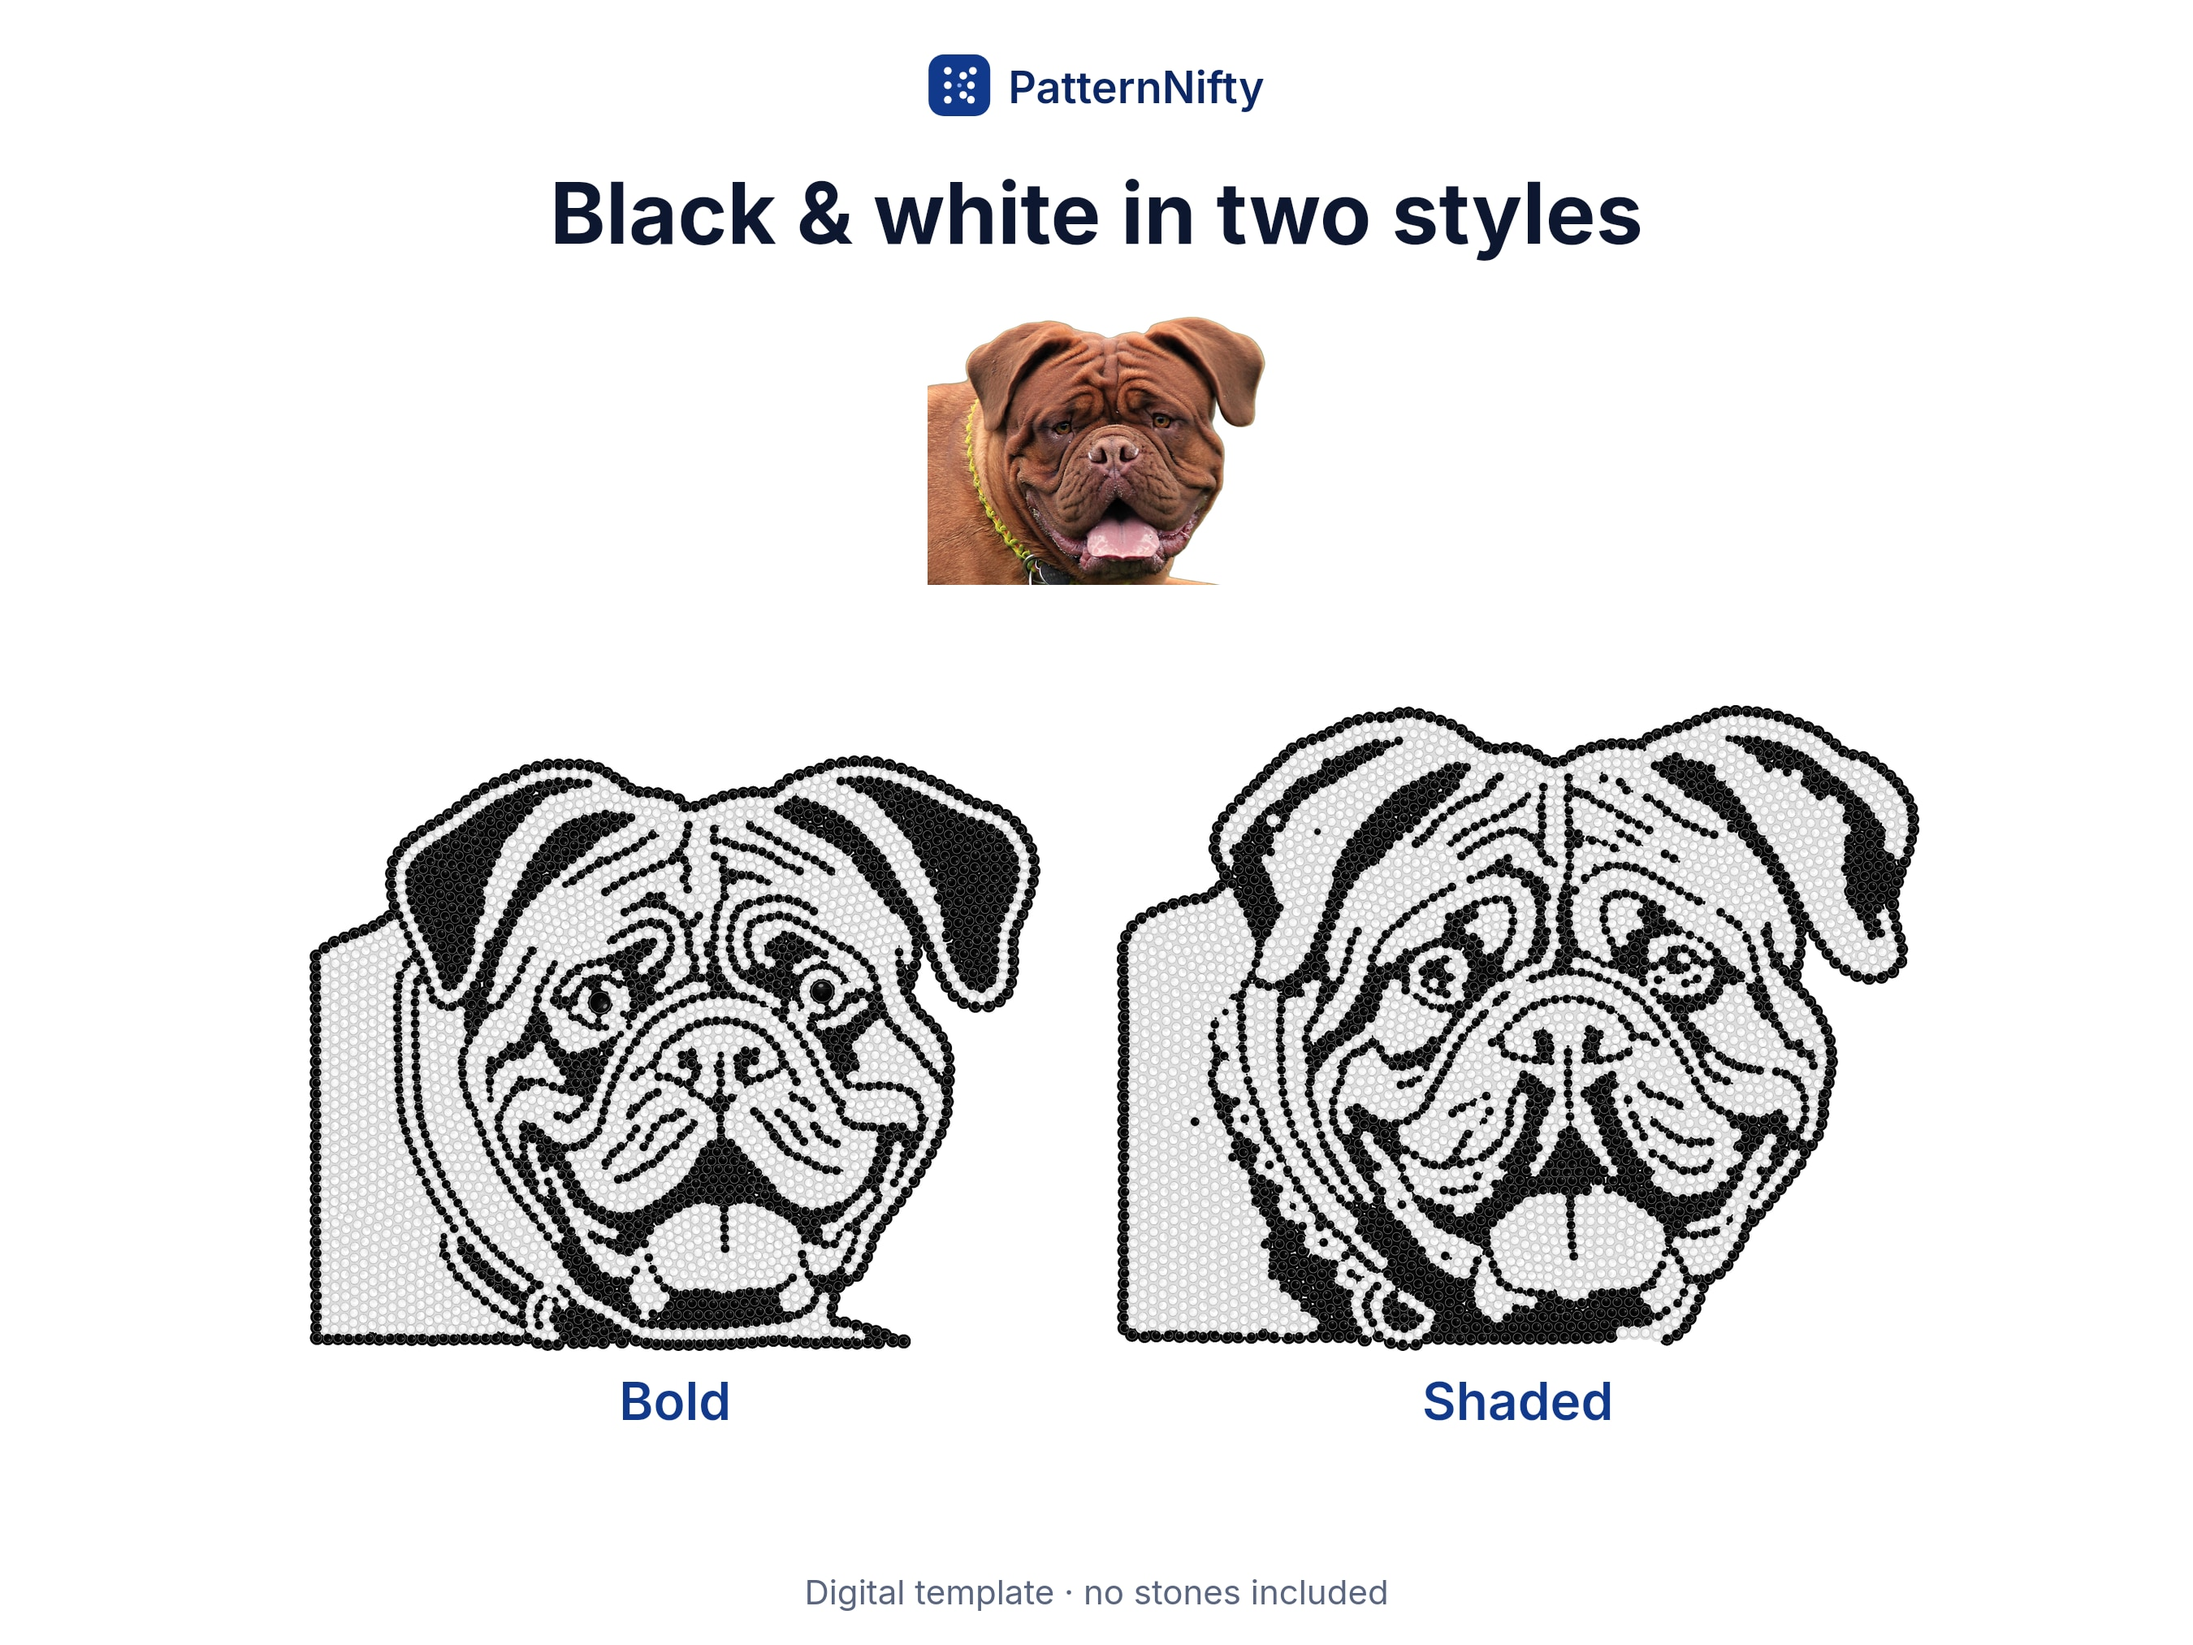
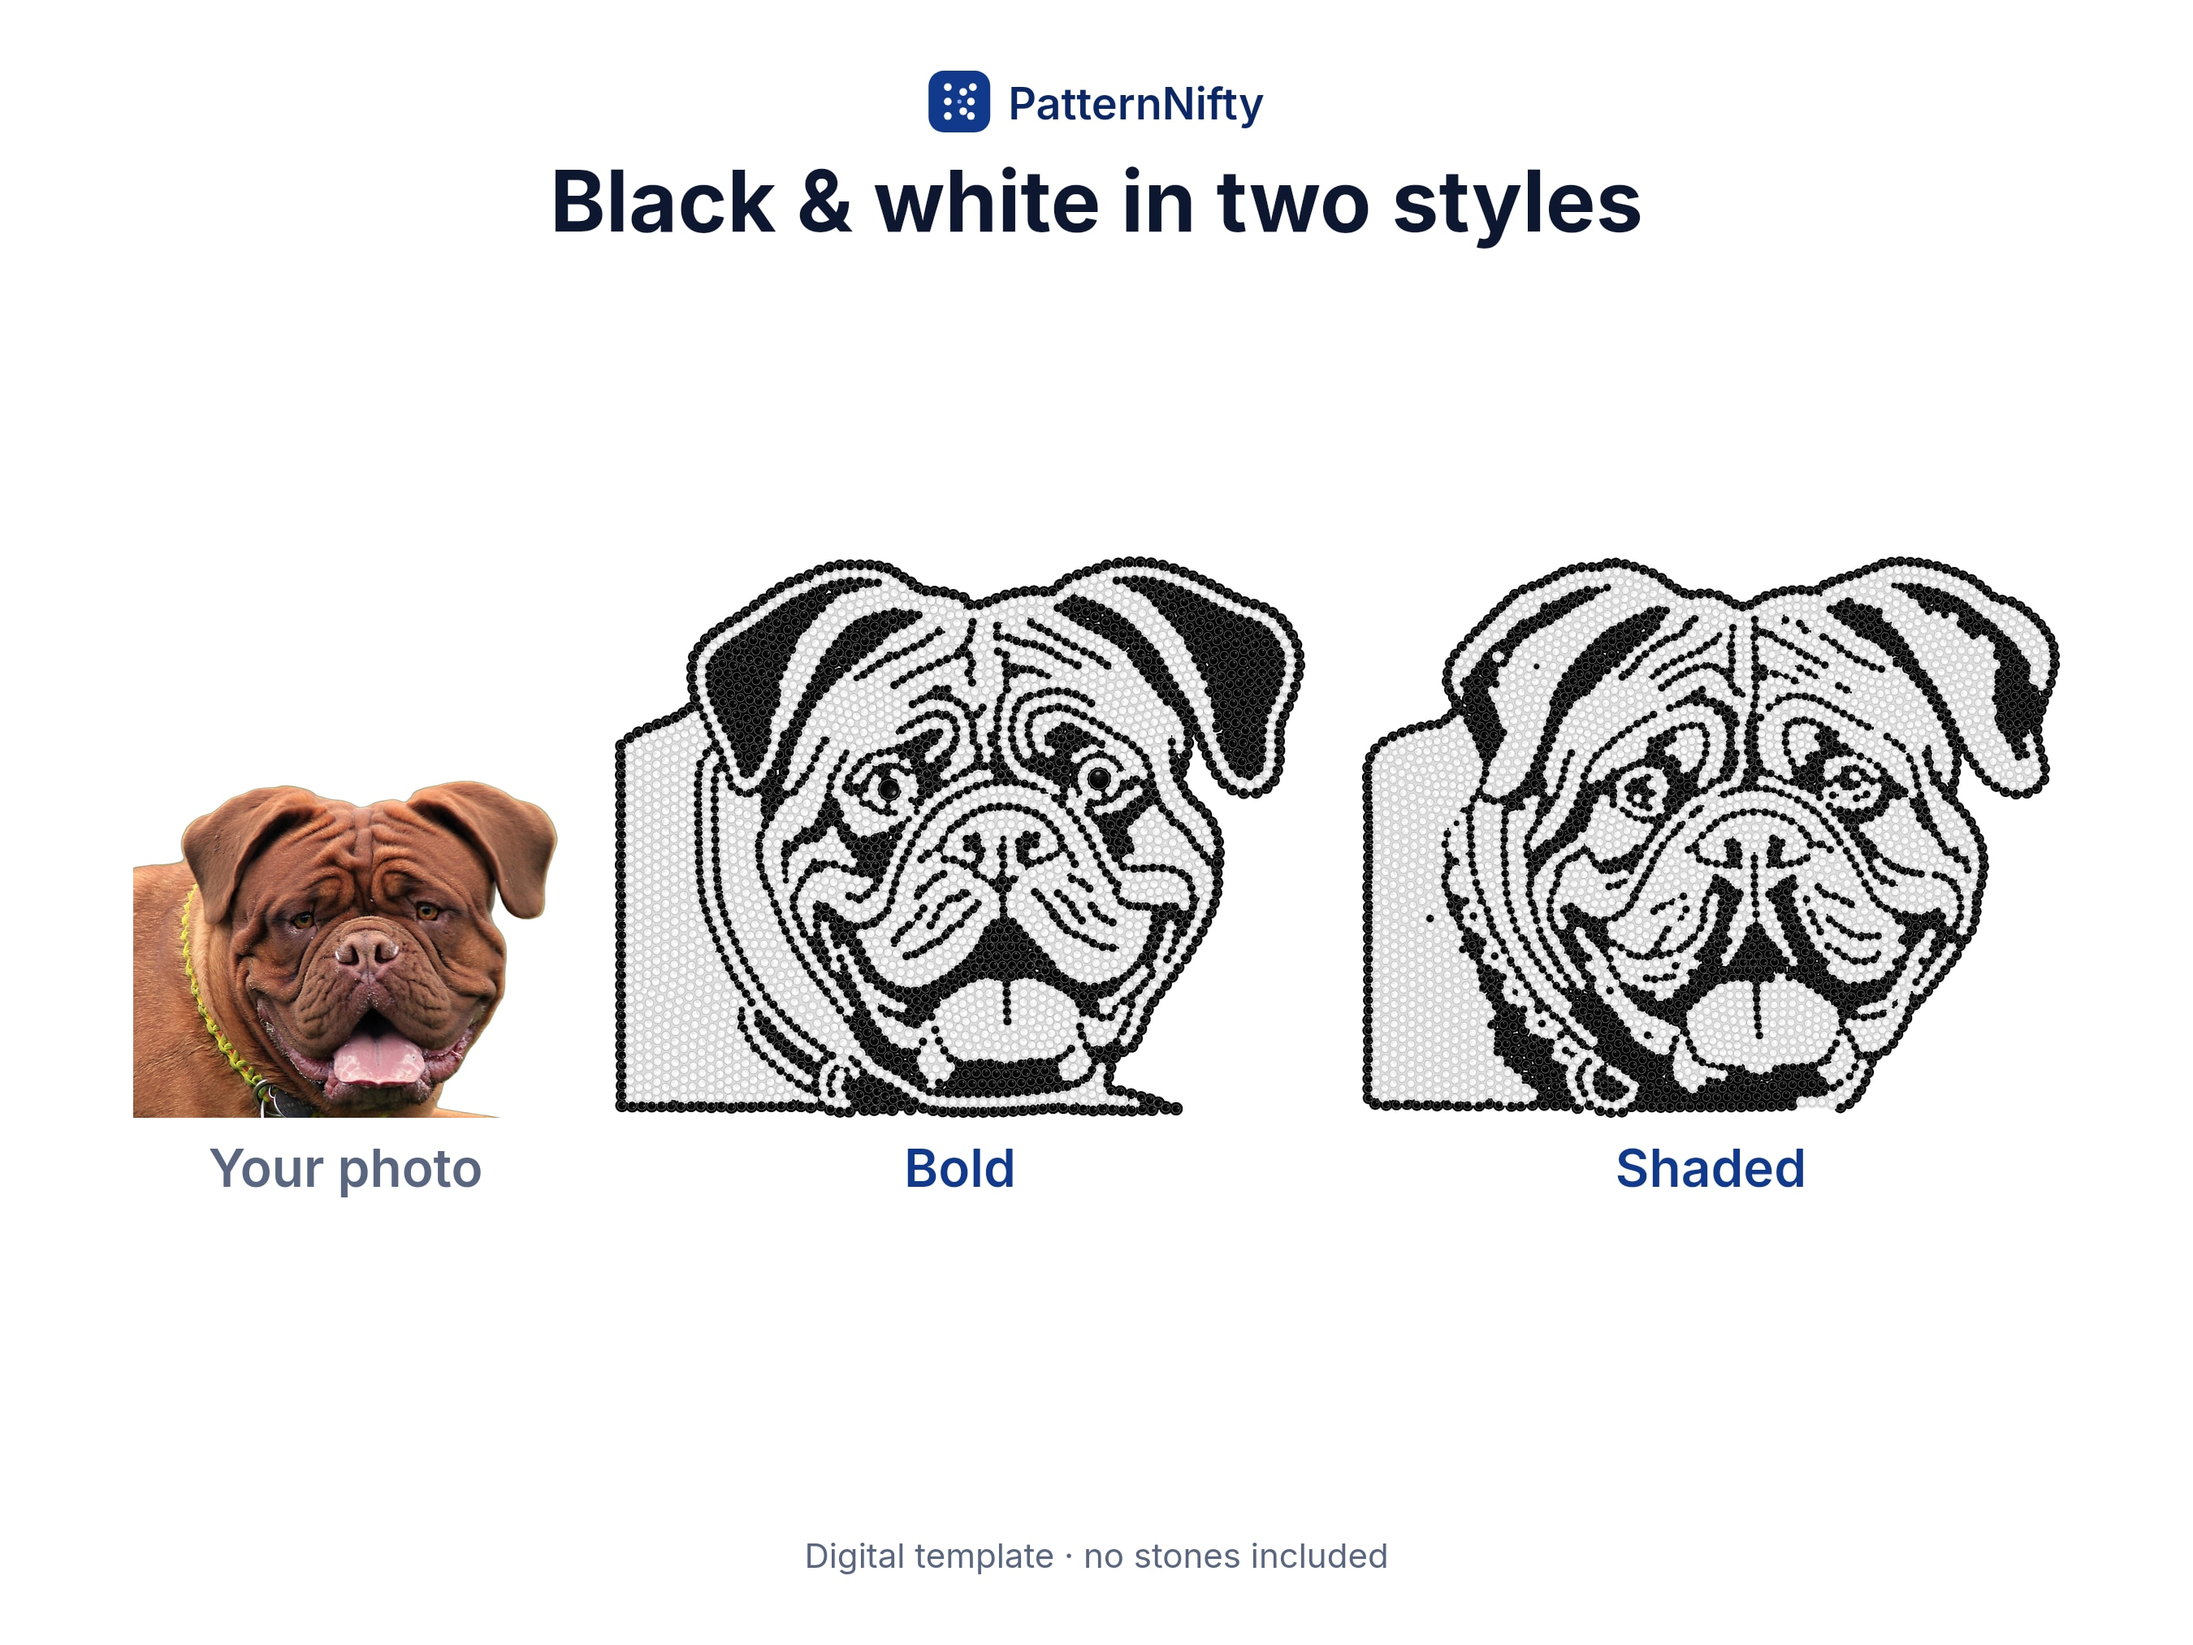
PN-04b follow-up: listing photos use the 5:4 thumbnail width
- Safe area: the centre 2531 x 2025 px (Etsy's thumbnail is about 5:4),
  80 px inside it; brand row and footer moved inside the margin too.
- 01: photo, arrow, design; the design 1.5 times the photo's height, as
  large as the width allows (dahlia 65.6 % of the height, butterfly 54 %).
- 02 and 08: your photo (0.6 of the design height), Bold, Shaded in one
  row, each design at the same height, each labelled.
- 03, 04 (larger cards, upload sign on step 1) and 06 (design 66 % of the
  height) use the full safe width.
- 07: a part of the butterfly's wing, rendered by the tinted renderer from
  its StoneLayout (PN-04a run stones.json) at 26.5 px/mm, about 9 SS6 stones
  per 500 px, instead of an enlarged crop of the mastiff render.
- README alt texts and overview.png updated.

Changed region(s): [[0.0622, 0.1867, 0.9644, 0.8711], [0.2489, 0.0311, 0.7467, 0.1556], [0.3733, 0.9333, 0.6222, 0.9956]]

diff --git a/docs/listing/photos/README.md b/docs/listing/photos/README.md
@@ -3,7 +3,9 @@
 Made by `node tools/make-listing-photos.mjs` from the listing designs marked "use in listing: yes" in
 [../README.md](../README.md) (their full-size files in `data/listing/designs/`). Running it again
 gives the same files. Each photo is 2700 × 2025 px (4:3), sRGB JPG, under 1 MB; everything that
-matters is inside the centre 2025 × 2025 square, which Etsy uses for the thumbnail.
+matters is at least 80 px inside the centre 2531 × 2025 px, the part Etsy's thumbnail (about 5:4)
+shows. The close-up (07) is rendered sharp at 26.5 px per mm from the butterfly design's stones, with
+the app's own tinted renderer.
 [overview.png](overview.png) shows them all on one sheet.
 
 Text is set in Inter (SIL Open Font License, `tools/fonts/`).
@@ -14,14 +16,14 @@ Use one of the two 01 photos as the main photo, then 02 to 08.
 
 | # | File | Alt text |
 | ---: | --- | --- |
-| 1 | [01-main-butterfly.jpg](01-main-butterfly.jpg) | A photo of a yellow and black swallowtail butterfly, an arrow, and the same butterfly as a colour rhinestone template, every stone drawn. Title: Your photo to rhinestone template. |
-| 1 | [01-main-dahlia.jpg](01-main-dahlia.jpg) | A photo of a red dahlia with a bud and green leaves, an arrow, and the same flower as a colour rhinestone template, every stone drawn. Title: Your photo to rhinestone template. |
-| 2 | [02-bold-vs-shaded.jpg](02-bold-vs-shaded.jpg) | A small photo of a mastiff's head above two black and white rhinestone templates of it at the same scale: Bold, with solid black and clear areas, and Shaded, with black and clear stones mixed. |
+| 1 | [01-main-butterfly.jpg](01-main-butterfly.jpg) | A photo of a yellow and black swallowtail butterfly, an arrow, and the same butterfly drawn larger as a colour rhinestone template, every stone shown. Title: Your photo to rhinestone template. |
+| 1 | [01-main-dahlia.jpg](01-main-dahlia.jpg) | A photo of a red dahlia with a bud and green leaves, an arrow, and the same flower drawn larger as a colour rhinestone template, every stone shown. Title: Your photo to rhinestone template. |
+| 2 | [02-bold-vs-shaded.jpg](02-bold-vs-shaded.jpg) | A small photo of a mastiff's head, then two black and white rhinestone templates of it: Bold, with solid black and clear areas, and Shaded, with black and clear stones mixed. Title: Black & white in two styles. |
 | 3 | [03-range.jpg](03-range.jpg) | Six colour rhinestone templates: a sports car, a stag beetle, a hedgehog, a mastiff, a butterfly and a red dahlia. Title: Pets, flowers, cars, anything. |
-| 4 | [04-how-it-works.jpg](04-how-it-works.jpg) | Four numbered steps with a butterfly example: upload your photo, see your design, order on Etsy with your code (PN-7K3Q-9XPA shown as an example), download your files. |
+| 4 | [04-how-it-works.jpg](04-how-it-works.jpg) | Four numbered cards with a butterfly example: upload your photo (with an upload sign), see your design, order on Etsy with your code (PN-7K3Q-9XPA as an example), download your files. |
 | 5 | [05-whats-included.jpg](05-whats-included.jpg) | The first page of a printable production sheet for a black and white mastiff template, next to the list of files included: SVG, PDF production sheet in A4 and Letter, AI, EPS, DXF, PNG and a preview. |
 | 6 | [06-size.jpg](06-size.jpg) | A colour rhinestone template of a mastiff with dimension lines: 16.5 cm (6.49 in) wide and 13.2 cm (5.21 in) high, 3714 stones, mostly SS6. Each design has its own natural size, usually 13 to 30 cm. |
-| 7 | [07-close-up.jpg](07-close-up.jpg) | A close-up of the colour mastiff template around the eyes and nose, showing single rhinestones in brown, pink, black and peach. Title: Every stone placed for you. |
-| 8 | [08-person.jpg](08-person.jpg) | A small black and white portrait photo of a smiling man between two rhinestone templates of it at the same scale, labelled Bold and Shaded. Title: Portraits too. |
+| 7 | [07-close-up.jpg](07-close-up.jpg) | A close-up of the butterfly template's wing: single rhinestones in clear yellow areas edged by black lines, with blue, white and green spots. Title: Every stone placed for you. |
+| 8 | [08-person.jpg](08-person.jpg) | A small black and white portrait photo of a smiling man, then two rhinestone templates of it labelled Bold and Shaded. Title: Portraits too. |
 
 Every photo except the close-up says "Digital template · no stones included" at the bottom.
